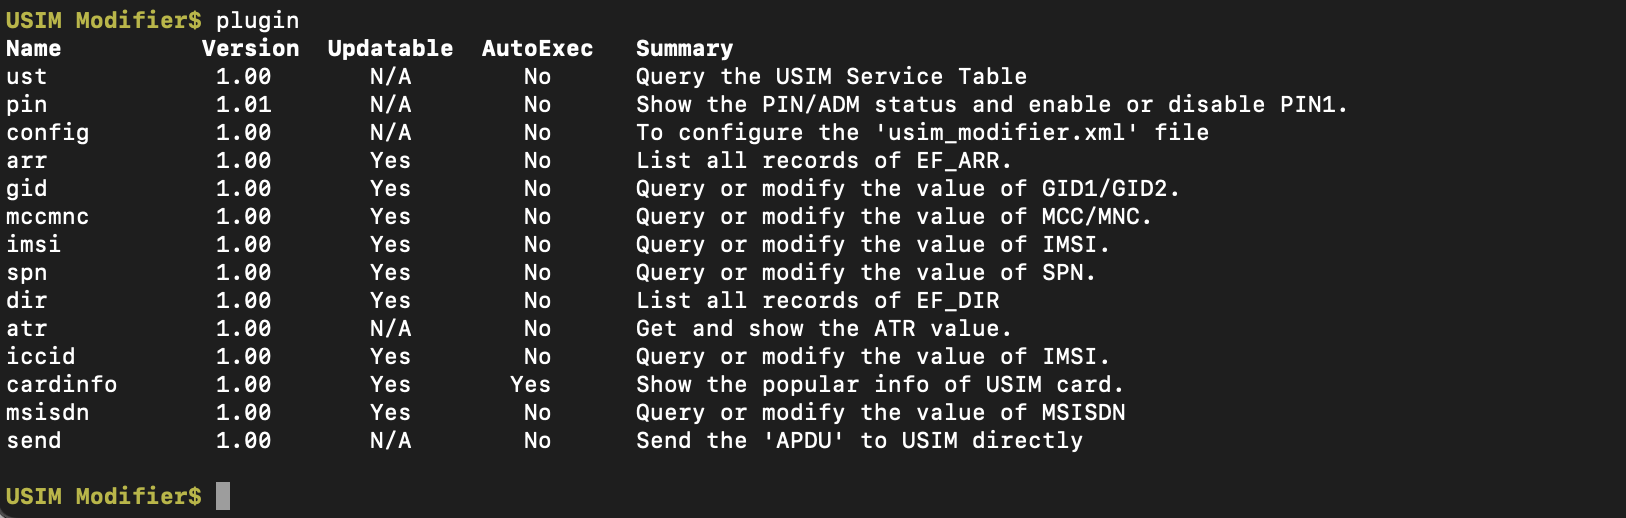
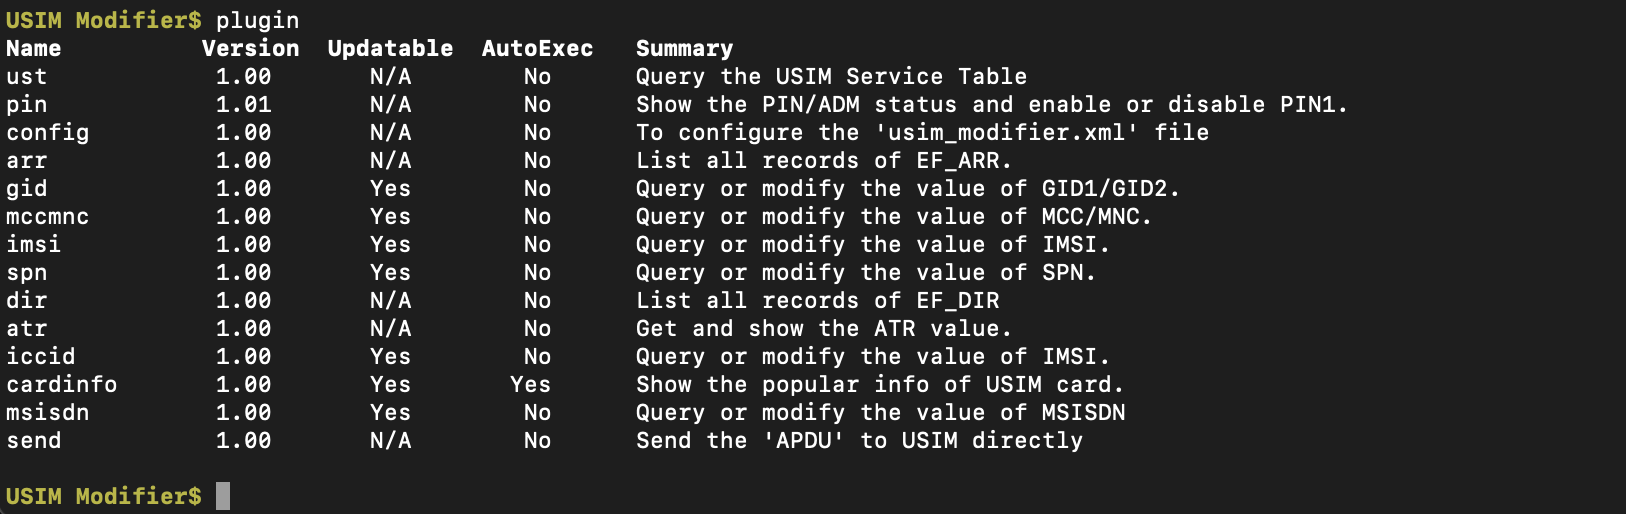
fixed incorrect updatable info

diff --git a/model/plugins/arr/arr.py b/model/plugins/arr/arr.py
@@ -23,7 +23,7 @@ class arr(base_plugin):
 
     @property
     def is_update_require_adm(self):
-        return False
+        return None
 
     def execute(self, arg_components: components, arg_arguments=''):
         log.debug(self.__class__.__name__, "ENTER")

diff --git a/model/plugins/dir/dir.py b/model/plugins/dir/dir.py
@@ -23,7 +23,7 @@ class dir(base_plugin):
 
     @property
     def is_update_require_adm(self):
-        return False
+        return None
 
     def execute(self, arg_components: components, arg_arguments=''):
         log.debug(self.__class__.__name__, "ENTER")
